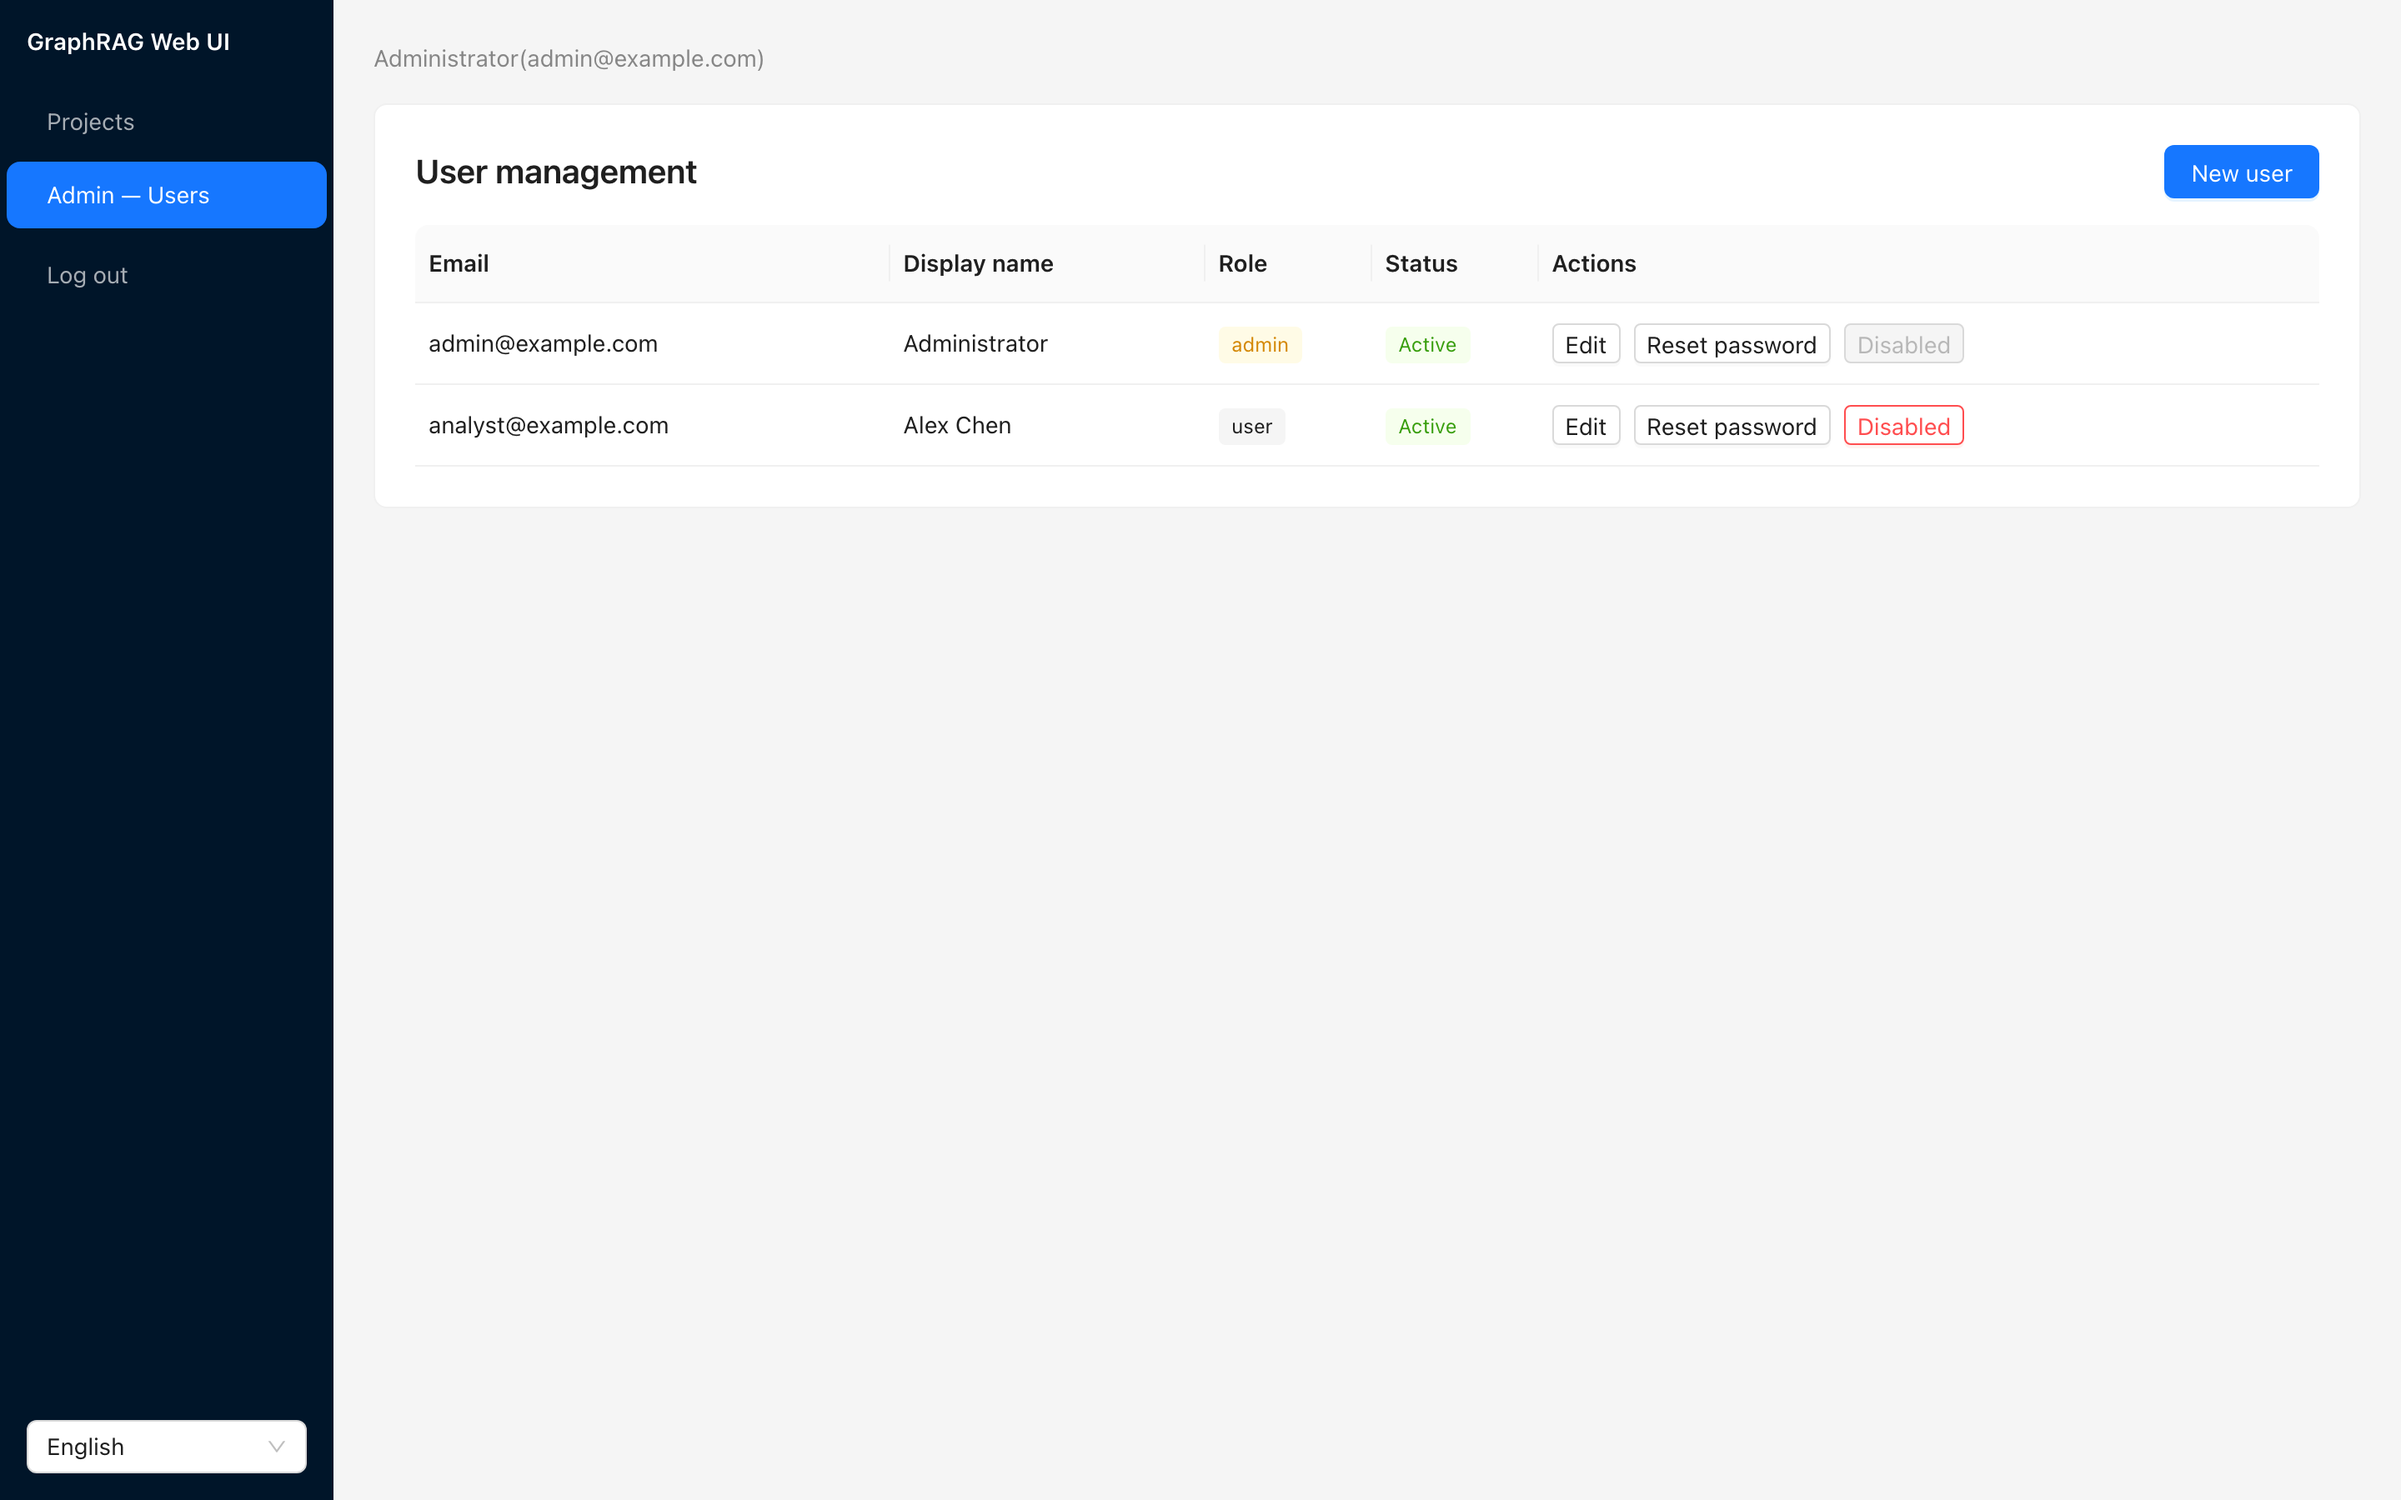
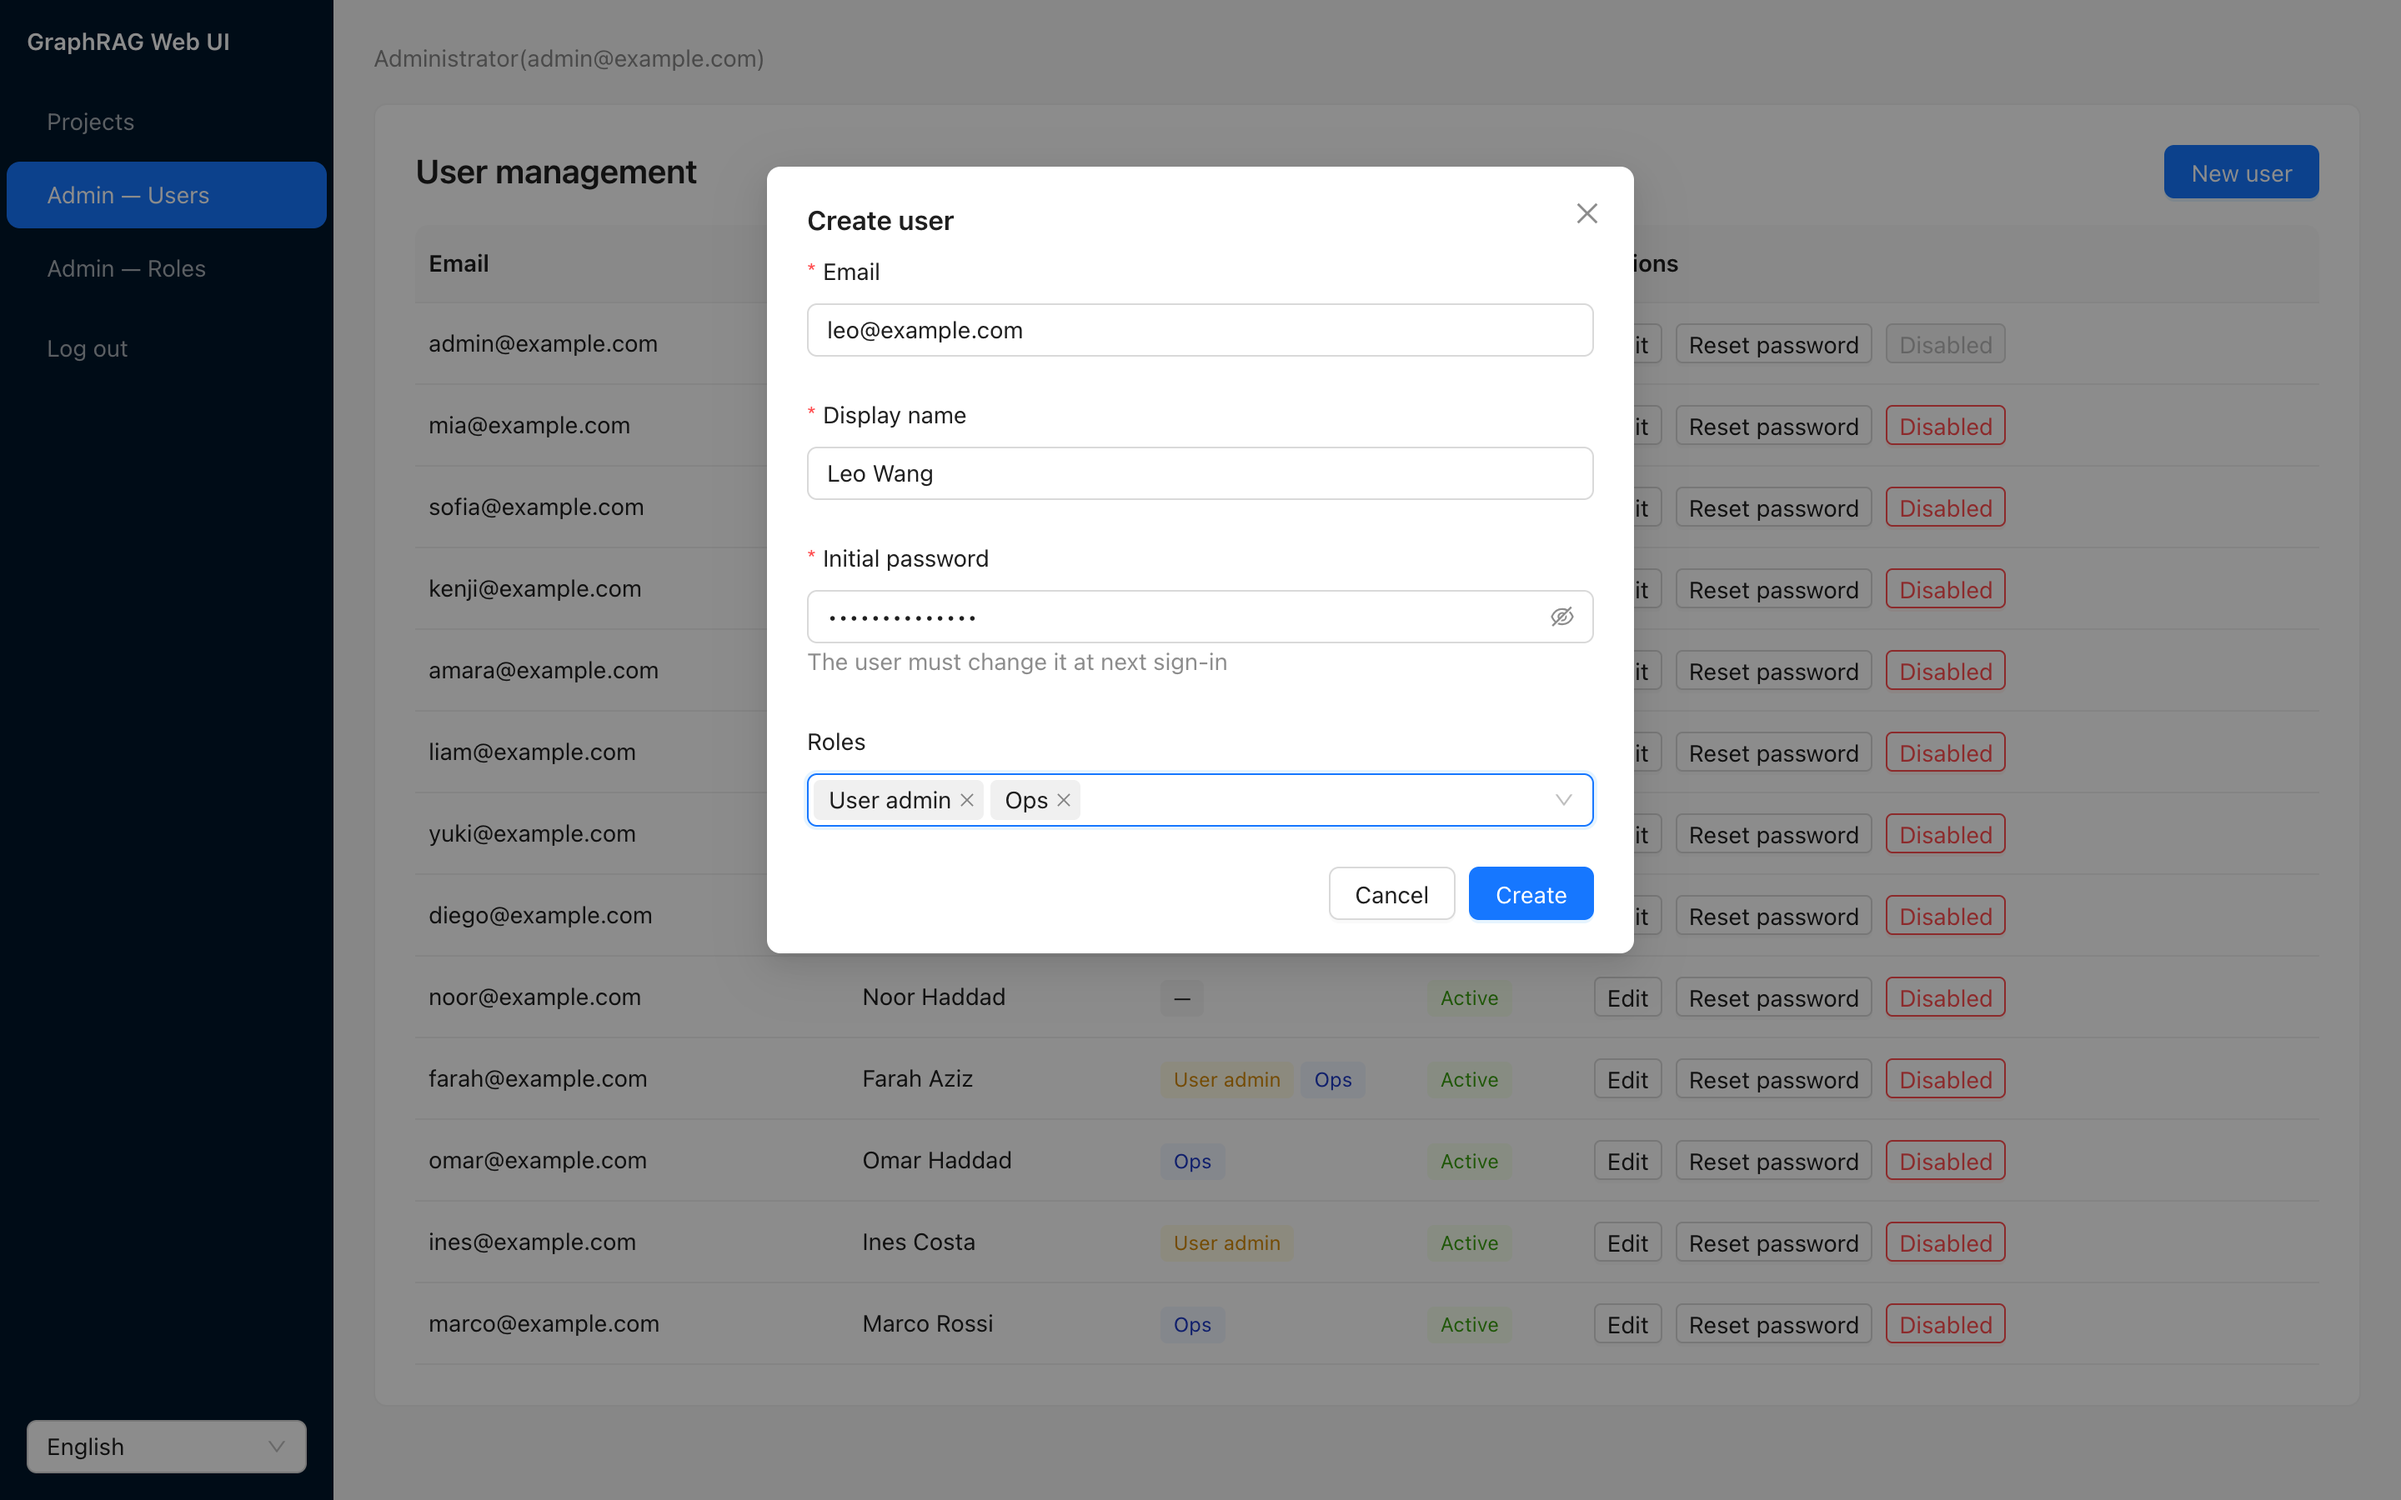
docs: retake admin screenshots, add roles page shots
Captured against a live docker compose stack (postgres + api + web)
running the full composable-roles model:

- admin-users.png (en/zh): users table with per-account role tags, the
  create-user modal open showing the roles multi-select (User admin +
  Ops selected); rows below the modal show mixed role tags
- admin-roles.png (en/zh): roles catalog with the six built-ins locked
  (disabled edit/delete, built-in badge), live usage counts (ops 8/0,
  user_admin 4/0), and a custom role row (Project Auditor, project
  scope, project:view) with enabled actions

Both languages captured via the sidebar language dropdown at the same
1440x900@2x viewport as the existing shots (2880x1800 PNG).

diff --git a/docs/zh-TW/README.md b/docs/zh-TW/README.md
@@ -129,6 +129,7 @@ flowchart LR
 密碼重設與停用);AdminRoles 頁面管理角色目錄:
 
 ![管理者使用者](../../assets/screenshots/zh/admin-users.png)
+![角色管理](../../assets/screenshots/zh/admin-roles.png)
 
 ## 已知注意事項
 

diff --git a/README.md b/README.md
@@ -131,6 +131,7 @@ tags (plus password resets and deactivation); the AdminRoles page manages
 the catalog:
 
 ![Admin users](docs/assets/screenshots/en/admin-users.png)
+![Admin roles](docs/assets/screenshots/en/admin-roles.png)
 
 ## Known caveats
 
